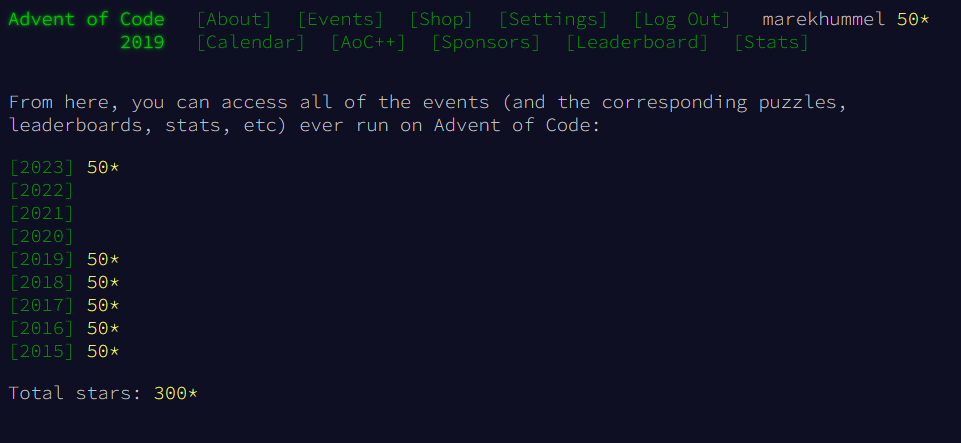
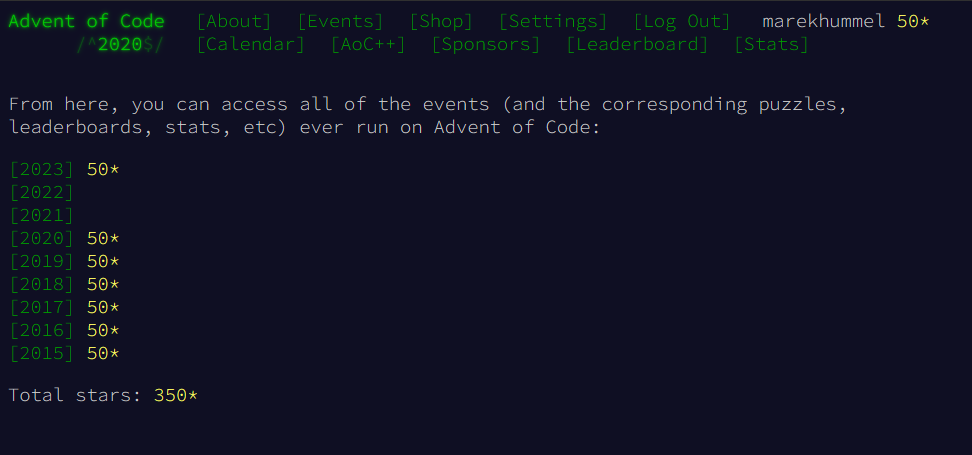
Finished year 2020

diff --git a/2020/README.md b/2020/README.md
@@ -1,0 +1,10 @@
+# 2020
+
+### Overview
+![Overview](2020_overview.png)
+
+### Final Star
+![Final Star](2020_conclusion.png)
+
+### Solutions
+[Solution File](solutions.txt)
